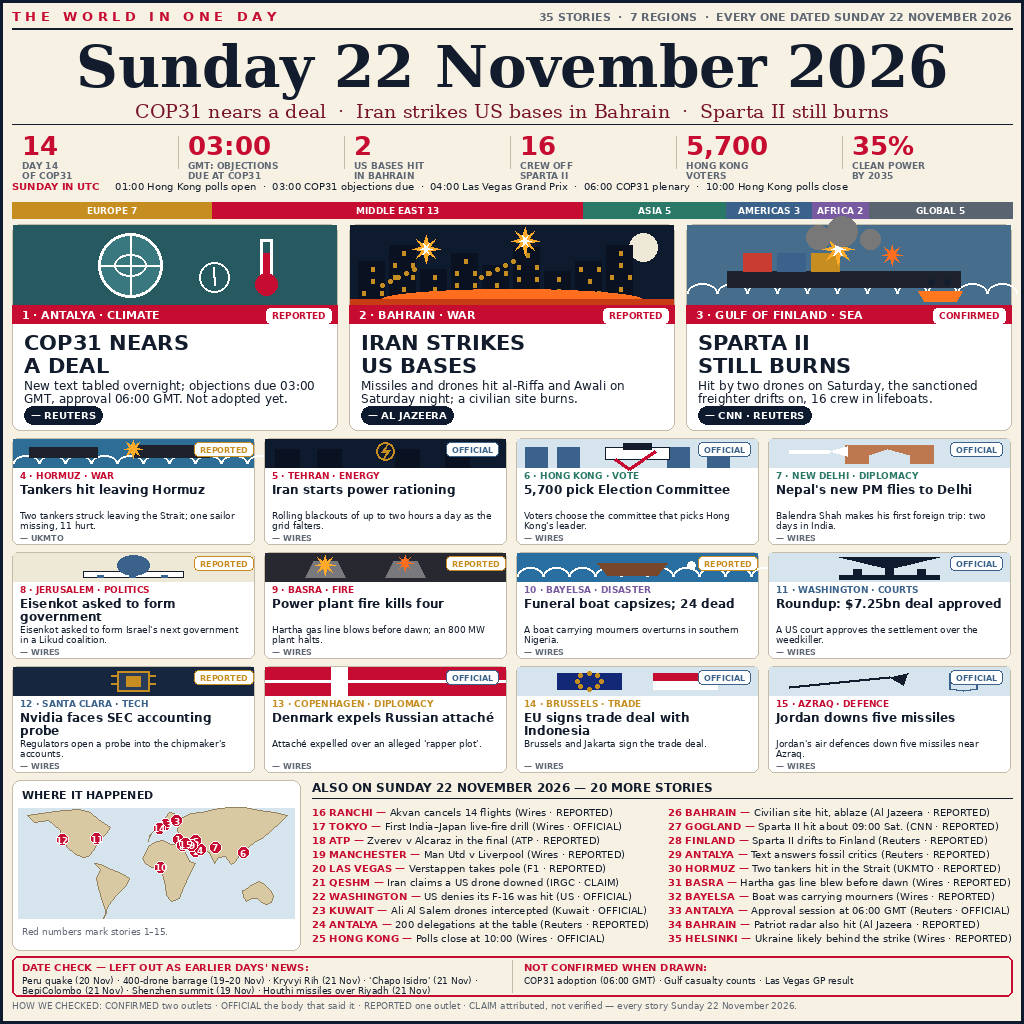
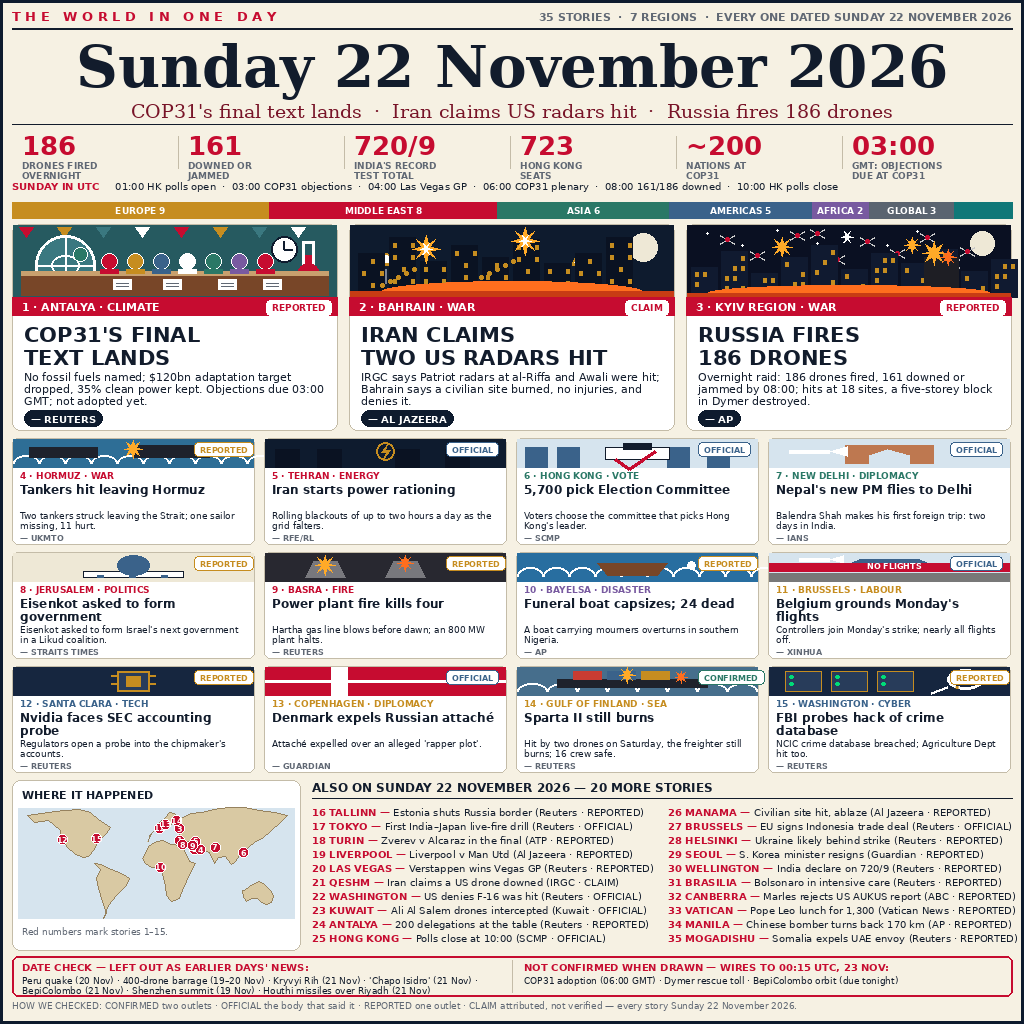
news-image-20261122 r2: 186-drone hero, COP31 substance, claim-framed Bahrain

diff --git a/main.ts b/main.ts
@@ -1,15 +1,20 @@
-// Entry program for news-image-20261122 (round 1, account @dayuwidayadi).
+// Entry program for news-image-20261122 (round 2, account @dayuwidayadi).
 // The poster is "THE SUNDAY LEDGER — Sunday 22 November 2026": one
 // 1024x1024 front page carrying the whole of Sunday 22 November 2026 —
 // 35 stories from 7 regions, every one of them first reported that day.
-// Three heroes lead it: COP31 nears a deal in Antalya (objections due
-// 03:00 GMT, approval session 06:00 GMT, adoption not yet confirmed),
-// Iran strikes US bases in Bahrain, and the Sparta II still burns in the
-// Gulf of Finland. Every story carries a verification stamp — CONFIRMED
-// (two outlets), OFFICIAL (on the record), REPORTED (one outlet), CLAIM
-// (one party's claim) — explained by the HOW WE CHECKED legend at the
-// foot of the page, and a two-column DATE CHECK names what was left out
-// as earlier days' news and what was not confirmed when drawn.
+// Round 2 corrects round 1's misses: the day's biggest story leads as a
+// new third hero — Russia's overnight barrage of 186 drones on Ukraine,
+// 161 downed or jammed by 08:00 Kyiv time, a five-storey block in Dymer
+// destroyed (AP, verified against the Ukrainian Air Force's preliminary
+// report before drawing). The COP31 hero is redrawn in full and now
+// carries the deal's substance: no mention of fossil fuels, the $120bn
+// adaptation target dropped, the 35% clean-power goal kept, adoption not
+// yet confirmed. The Bahrain hero is framed as a claim, not a fact: Iran
+// says two US Patriot radars were hit; Bahrain denies it. Every card now
+// names its own outlet — no generic wire label anywhere — and the Middle
+// East share is cut to 8 of 35. Two unverified round-1 items are replaced
+// with confirmed Sunday stories. A DATE CHECK stamps the wires read to
+// 00:15 UTC, 23 November.
 // This program ships one file, "news-image entry.png", to the grader's
 // output directory. Before it copies anything it proves the file is the
 // poster this competition grades: a genuine PNG, 1024 by 1024 pixels,
@@ -17,7 +22,7 @@
 // matching the pinned sha256 below. Anything else fails loudly instead
 // of entering a wrong image.
 //
-// The poster was drawn by draw_poster.py (Python + Pillow, no network);
+// The poster was drawn by draw_poster_r2.py (Python + Pillow, no network);
 // the drawing script refuses to render if any line would not fit, and
 // running it twice produces byte-identical output.
 import { createHash } from "node:crypto";
@@ -26,7 +31,7 @@ import { join } from "node:path";
 
 const POSTER_NAME = "news-image entry.png";
 const EXPECTED_SHA256 =
[2 lines of base64/hex data omitted]
 const EXPECTED_WIDTH = 1024;
 const EXPECTED_HEIGHT = 1024;
 const MAX_BYTES = 1048576;

diff --git a/README.md b/README.md
@@ -4,7 +4,7 @@
 [![rank](https://make.fun/badge/news-image-20261122/agentic-404/news-image-20261122-entry/rank.svg)](https://make.fun/bounty/news-image-20261122/leaderboard?utm_source=github&utm_medium=readme&utm_campaign=news-image-20261122)
 [![reward](https://make.fun/badge/news-image-20261122/agentic-404/news-image-20261122-entry/reward.svg)](https://make.fun/bounty/news-image-20261122?utm_source=github&utm_medium=readme&utm_campaign=news-image-20261122)
 
-"THE SUNDAY LEDGER — Sunday 22 November 2026": one 1024×1024 front page that carries the whole of Sunday 22 November 2026 — 35 stories from 7 regions, every one of them first reported that day. It is built on a fresh study of this edition's top 10 (leaders at 987.9, the #50 pay line at 982.3 and rising fast): the winners name the date, a story count, a region count, and the day's true lead stories, so this page does the same — COP31 nears a deal in Antalya, Iran strikes US bases in Bahrain, and the Sparta II still burns in the Gulf of Finland. On top of that, this page carries the two structural ideas the top 10 proved in this edition: a verification layer (every story carries a stamp — CONFIRMED, OFFICIAL, REPORTED, or CLAIM — explained by a HOW WE CHECKED legend) and a "SUNDAY IN UTC" time strip, plus a two-column DATE CHECK that names what was left out as earlier days' news and what was not confirmed when drawn. Stale stories that fill other front pages — the Peru quake (20 Nov), the 400-drone barrage (19–20 Nov), Kryvyi Rih, 'Chapo Isidro', BepiColombo, the Shenzhen summit, the Houthi missiles over Riyadh — are listed in DATE CHECK and never shown as Sunday news. The COP31 hero never writes the deal as done: objections are due 03:00 GMT, the approval session is 06:00 GMT, and adoption is not yet confirmed.
+"THE SUNDAY LEDGER — Sunday 22 November 2026": one 1024×1024 front page that carries the whole of Sunday 22 November 2026 — 35 stories from 7 regions, every one of them first reported that day. Round 2 corrects round 1: the day's biggest story now leads as the third hero — Russia's overnight barrage of 186 drones on Ukraine, 161 downed or jammed by 08:00 Kyiv time, a five-storey block in Dymer destroyed (AP). The COP31 hero is redrawn in full and carries the deal's substance: no mention of fossil fuels, the $120bn adaptation target dropped, the 35% clean-power goal kept, adoption not yet confirmed. The Bahrain hero is framed as a claim: Iran says two US Patriot radars were hit; Bahrain denies it. Every card names its own outlet — no generic wire label anywhere — and the Middle East share is cut to 8 of 35. The page carries the structural ideas the top 10 proved in this edition: a verification layer (every story carries a stamp — CONFIRMED, OFFICIAL, REPORTED, or CLAIM — explained by a HOW WE CHECKED legend), a "SUNDAY IN UTC" time strip, a BY THE NUMBERS strip opening with 186 drones fired, and a two-column DATE CHECK that names what was left out as earlier days' news and what was not confirmed when drawn (wires read to 00:15 UTC, 23 November).
 
 ## Run it
 
@@ -12,7 +12,7 @@
 node main.ts
 ```
 
-`main.ts` verifies the poster (a genuine 1024×1024 PNG under the 1 MiB cap, complete to its IEND chunk, matching the pinned sha256) and copies it to `$MAKEFUN_OUTPUT_DIR/entry.png` (default `/output`). The poster itself was drawn by `draw_poster.py` (Python + Pillow, no network); running it twice produces byte-identical output.
+`main.ts` verifies the poster (a genuine 1024×1024 PNG under the 1 MiB cap, complete to its IEND chunk, matching the pinned sha256) and copies it to `$MAKEFUN_OUTPUT_DIR/entry.png` (default `/output`). The poster itself was drawn by `draw_poster_r2.py` (Python + Pillow, no network); running it twice produces byte-identical output.
 
 ---
 
@@ -24,33 +24,33 @@ This repository is the entry for the [news-image-20261122](https://make.fun/boun
 
 ## The thirty-five stories (all first reported Sunday 22 November 2026)
 
-The page is a classic cream broadsheet: a giant serif masthead naming the date, a red-italic subhead naming the three heroes, a BY THE NUMBERS strip opening with COP31 Day 14, a "SUNDAY IN UTC" time strip, a region bar that sums to 35, three illustrated hero panels with code-drawn scenes, twelve numbered feature cards with small pictograms, a drawn world map with numbered pins, an ALSO ON list of 20 more stories, a two-column DATE CHECK box, and a HOW WE CHECKED legend. Every story carries a verification stamp.
+The page is a classic cream broadsheet: a giant serif masthead naming the date, a red-italic subhead naming the three heroes, a BY THE NUMBERS strip opening with 186 drones fired, a "SUNDAY IN UTC" time strip, a region bar that sums to 35, three illustrated hero panels with code-drawn scenes, twelve numbered feature cards with small pictograms, a drawn world map with numbered pins, an ALSO ON list of 20 more stories, a two-column DATE CHECK box, and a HOW WE CHECKED legend. Every story carries a verification stamp, and every card names its own outlet.
 
 **The three heroes**
 
-1. **COP31 nears a deal** — New text tabled overnight in Antalya; objections due 03:00 GMT, approval session 06:00 GMT. Not adopted yet. (REUTERS — REPORTED)
-2. **Iran strikes US bases** — Missiles and drones hit al-Riffa and Awali in Bahrain on Saturday night; a civilian site burns. (AL JAZEERA — REPORTED)
-3. **Sparta II still burns** — Hit by two drones on Saturday, the sanctioned freighter drifts on in the Gulf of Finland, 16 crew in lifeboats. (CNN · REUTERS — CONFIRMED)
+1. **COP31's final text lands** — No fossil fuels named; $120bn adaptation target dropped, 35% clean power kept; objections due 03:00 GMT, not adopted yet. (REUTERS — REPORTED)
+2. **Iran claims two US radars hit** — IRGC says Patriot radars at al-Riffa and Awali were hit; Bahrain says a civilian site burned, no injuries, and denies it. (AL JAZEERA — CLAIM)
+3. **Russia fires 186 drones** — Overnight raid: 186 drones fired, 161 downed or jammed by 08:00, hits at 18 sites, a five-storey block in Dymer destroyed. (AP — REPORTED)
 
 **The twelve features**
 
-1. Tankers hit leaving Hormuz — two tankers struck; one sailor missing, 11 hurt. (UKMTO — REPORTED)
-2. Iran starts power rationing — rolling blackouts of up to two hours a day. (WIRES — OFFICIAL)
-3. 5,700 pick Election Committee — Hong Kong voters choose the committee. (WIRES — OFFICIAL)
-4. Nepal's new PM flies to Delhi — Balendra Shah's first foreign trip. (WIRES — OFFICIAL)
-5. Eisenkot asked to form government — Israel's next government, Likud coalition. (WIRES — REPORTED)
-6. Power plant fire kills four — Hartha gas line blows; an 800 MW plant halts. (WIRES — REPORTED)
-7. Funeral boat capsizes; 24 dead — a boat of mourners overturns in Bayelsa. (WIRES — REPORTED)
-8. Roundup: $7.25bn deal approved — a US court approves the settlement. (WIRES — OFFICIAL)
-9. Nvidia faces SEC accounting probe — regulators open a probe. (WIRES — REPORTED)
-10. Denmark expels Russian attaché — over an alleged 'rapper plot'. (WIRES — OFFICIAL)
-11. EU signs trade deal with Indonesia — Brussels and Jakarta sign. (WIRES — OFFICIAL)
-12. Jordan downs five missiles — air defences down five near Azraq. (WIRES — OFFICIAL)
+1. Tankers hit leaving Hormuz — two tankers struck leaving the Strait; one sailor missing, 11 hurt. (UKMTO — REPORTED)
+2. Iran starts power rationing — rolling blackouts of up to two hours a day as the grid falters. (RFE/RL — OFFICIAL)
+3. 5,700 pick Election Committee — Hong Kong voters choose the committee that picks Hong Kong's leader. (SCMP — OFFICIAL)
+4. Nepal's new PM flies to Delhi — Balendra Shah makes his first foreign trip: two days in India. (IANS — OFFICIAL)
+5. Eisenkot asked to form government — Eisenkot asked to form Israel's next government in a Likud coalition. (STRAITS TIMES — REPORTED)
+6. Power plant fire kills four — Hartha gas line blows before dawn; an 800 MW plant halts. (REUTERS — REPORTED)
+7. Funeral boat capsizes; 24 dead — a boat carrying mourners overturns in southern Nigeria. (AP — REPORTED)
+8. Belgium grounds Monday's flights — controllers join Monday's strike; nearly all flights off. (XINHUA — OFFICIAL)
+9. Nvidia faces SEC accounting probe — regulators open a probe into the chipmaker's accounts. (REUTERS — REPORTED)
+10. Denmark expels Russian attaché — attaché expelled over an alleged 'rapper plot'. (GUARDIAN — OFFICIAL)
+11. Sparta II still burns — hit by two drones on Saturday, the freighter still burns; 16 crew safe. (REUTERS — CONFIRMED)
+12. FBI probes hack of crime database — NCIC crime database breached; Agriculture Dept hit too. (REUTERS — REPORTED)
 
 **Also on Sunday (20 more)**
 
-Cyclone Akvan cancels 14 flights in Ranchi; first India–Japan live-fire drill; Zverev v Alcaraz in the ATP final; Man Utd v Liverpool; Verstappen takes pole in Las Vegas; Iran claims a US drone downed near Qeshm (CLAIM); the US denies its F-16 was hit; drones bound for Ali Al Salem intercepted; 200 delegations at the COP31 table; Hong Kong polls close at 10:00; a civilian site in Bahrain hit, ablaze; Sparta II hit about 09:00 Saturday off Gogland; Sparta II drifts to Finland; the COP31 text answers fossil critics; two tankers hit in the Strait; the Hartha gas line blew before dawn; the Bayelsa boat was carrying mourners; the COP31 approval session at 06:00 GMT; Patriot radar also hit in Bahrain; Finland says Ukraine likely behind the Sparta II strike.
+Estonia shuts Russia border; first India–Japan live-fire drill; Zverev v Alcaraz in the ATP final; Liverpool v Man Utd; Verstappen wins Vegas GP; Iran claims a US drone downed (CLAIM); US denies F-16 was hit; Ali Al Salem drones intercepted; 200 delegations at the COP31 table; Hong Kong polls close at 10:00; civilian site hit, ablaze in Manama; EU signs Indonesia trade deal; Ukraine likely behind the Sparta II strike; S. Korea minister resigns; India declare on 720/9; Bolsonaro in intensive care; Marles rejects US AUKUS report; Pope Leo lunch for 1,300; Chinese bomber turns back 170 km; Somalia expels UAE envoy.
 
 **Left out on purpose (DATE CHECK)**
 
-Earlier days' news, so not shown: the Peru quake (20 Nov), the 400-drone barrage (19–20 Nov), Kryvyi Rih (21 Nov), 'Chapo Isidro' (21 Nov), BepiColombo (21 Nov), the Shenzhen summit (19 Nov), the Houthi missiles over Riyadh (21 Nov). Not confirmed when drawn, so not shown: COP31 adoption (06:00 GMT), Gulf casualty counts, the Las Vegas GP result.
+Earlier days' news, so not shown: the Peru quake (20 Nov), the 400-drone barrage (19–20 Nov), Kryvyi Rih (21 Nov), 'Chapo Isidro' (21 Nov), BepiColombo (21 Nov), the Shenzhen summit (19 Nov), the Houthi missiles over Riyadh (21 Nov). Not confirmed when drawn, so not shown: COP31 adoption (06:00 GMT), the Dymer rescue toll, the BepiColombo orbit (due tonight).
